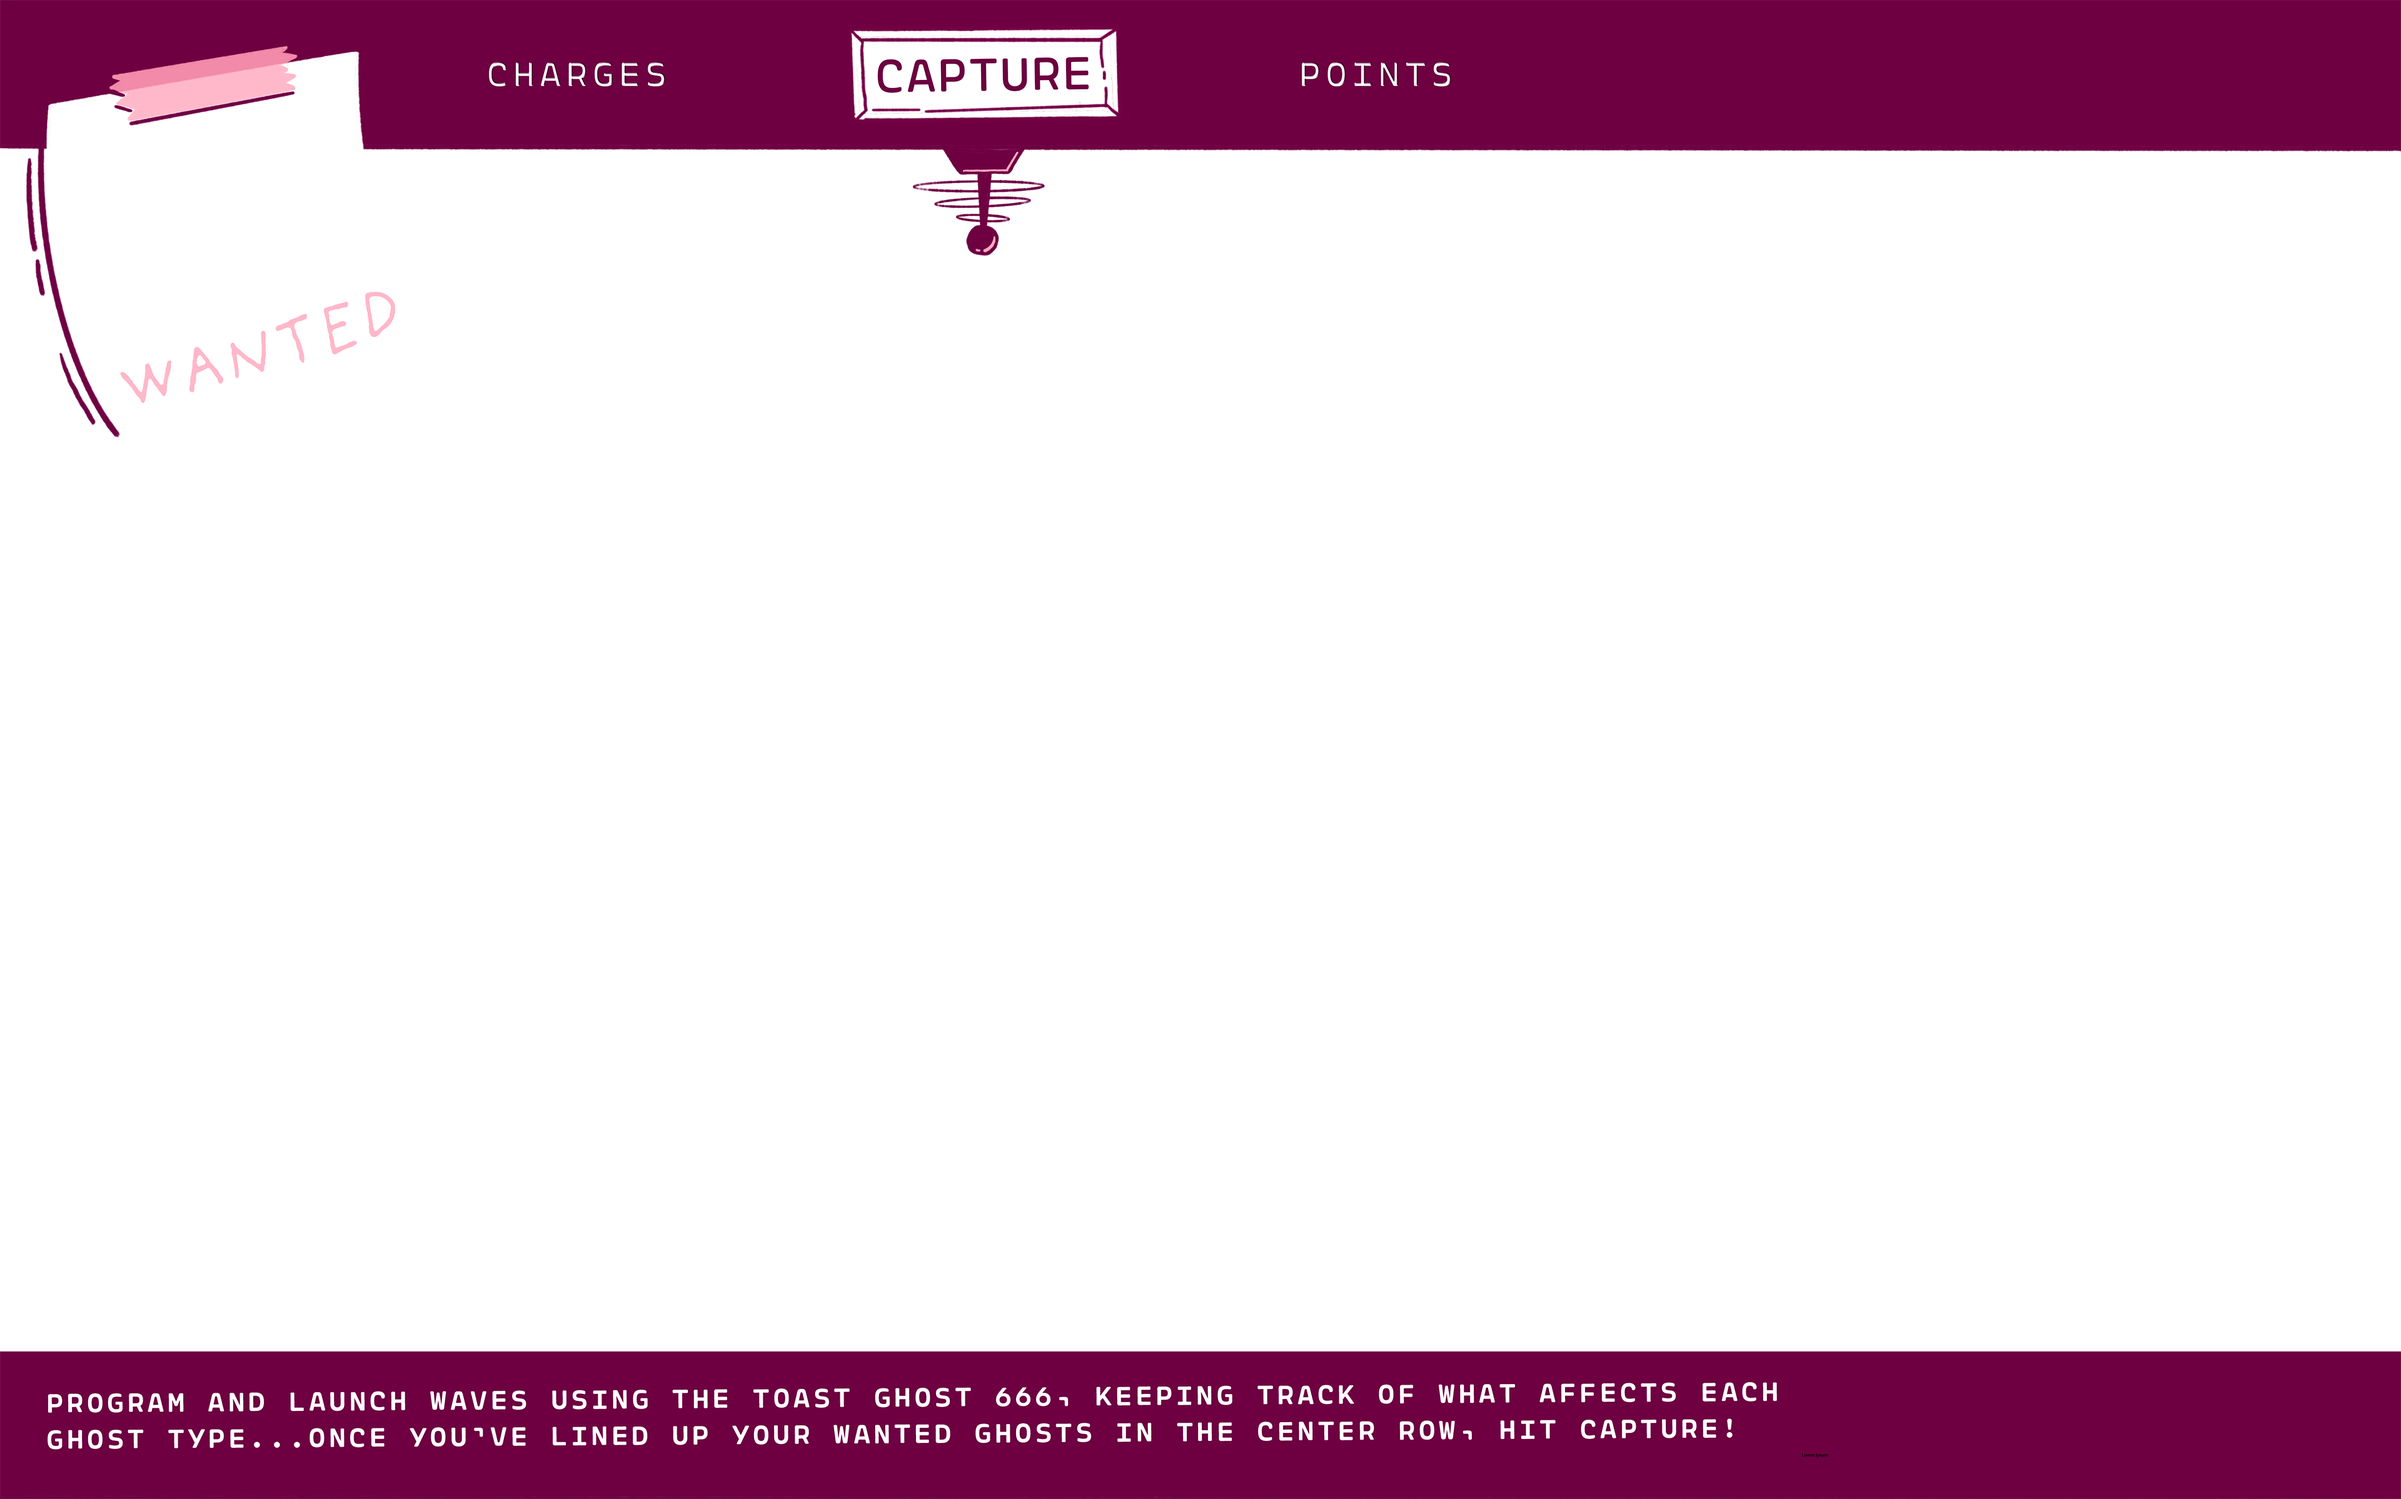
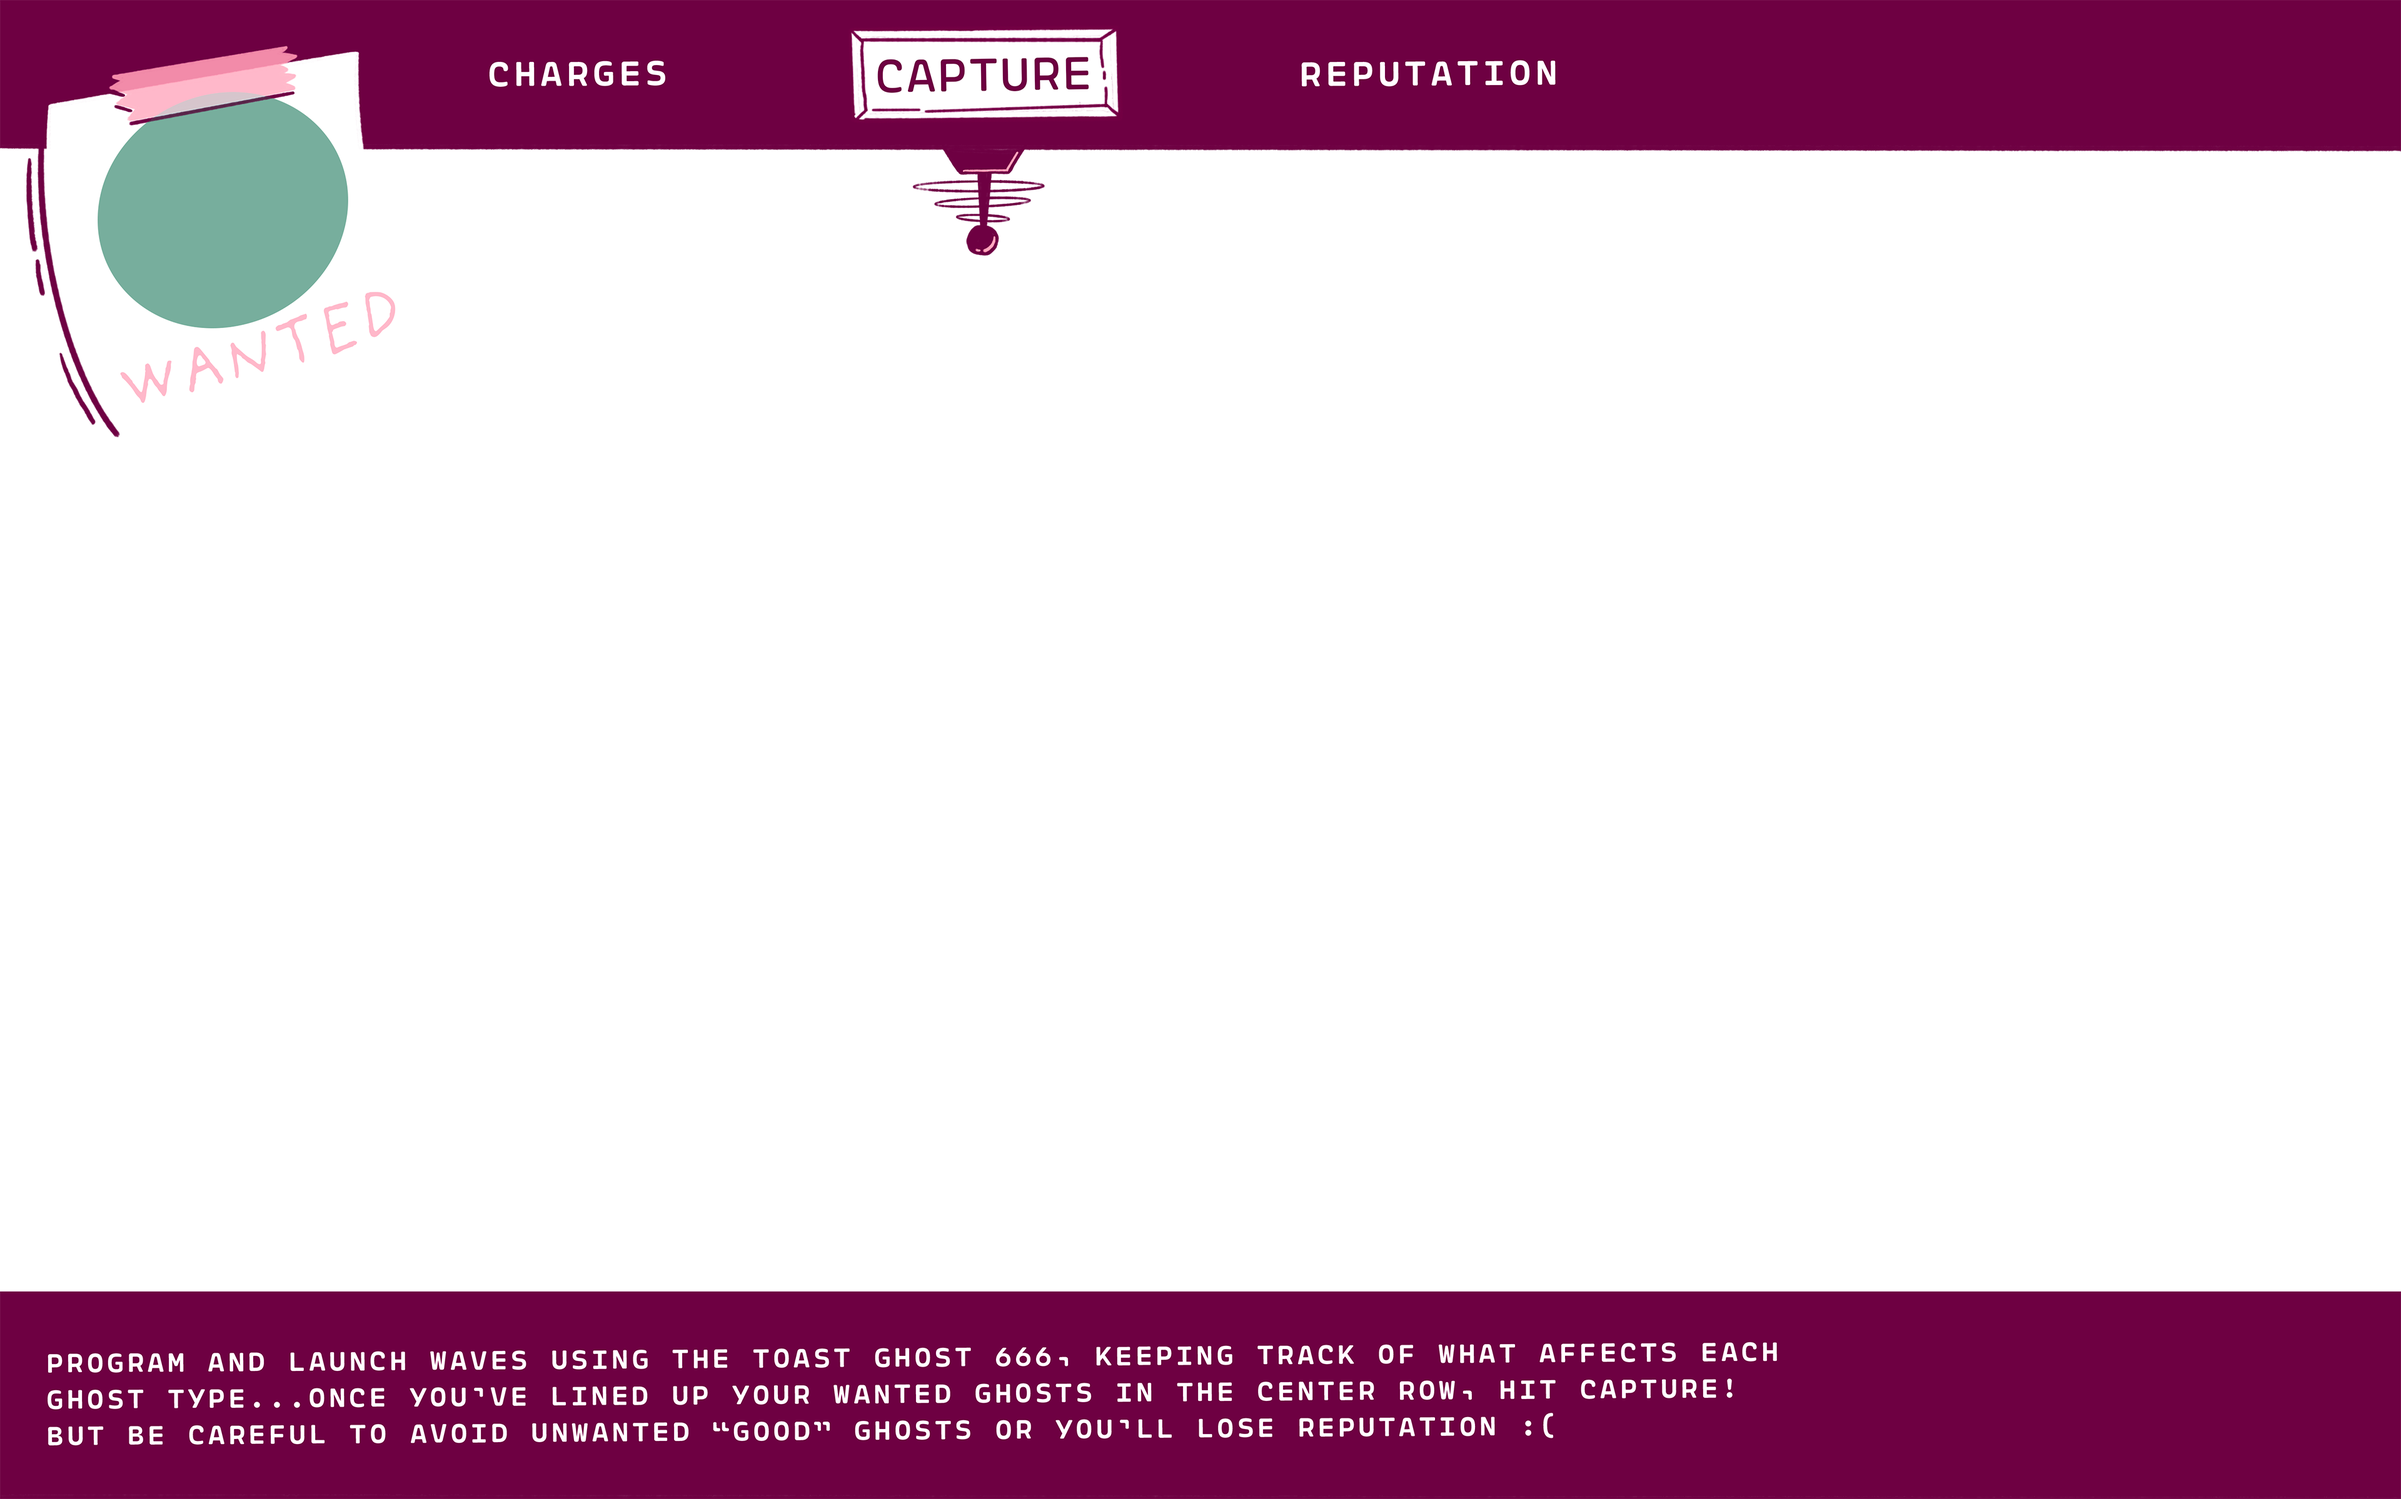
fix frame, counters

diff --git a/src/main.rs b/src/main.rs
@@ -131,7 +131,7 @@ struct Sprites {
     ghosts: Option<[[Handle<Image>; 14]; 8]>,
     background: Option<Handle<Image>>,
     frame: Option<Handle<Image>>,
-    frame_counter: Option<[Handle<Image>; 10]>,
+    frame_counter: Option<[Handle<Image>; 11]>,
     remote_base: Option<Handle<Image>>,
     remote_dial: Option<[Handle<Image>; 3]>,
     // by wave, then by state
@@ -230,7 +230,7 @@ fn load_sprites(
     sprites.remote_handle = Some(assets.load("ui/Handle.png"));
 
     let mut counters = Vec::<Handle<Image>>::new();
-    for counter_idx in 1..=10 {
+    for counter_idx in 0..=10 {
         let file_name = format!("ui/Counter{}.png", counter_idx);
         counters.push(assets.load(file_name));
     }
@@ -557,7 +557,7 @@ fn spawn_ui(
         cmd.spawn((
             TargetGhostDisplay,
             Sprite::from_image(target_ghost_sprite),
-            Transform::from_xyz(-1550.0, 830.0, 1.0)
+            Transform::from_xyz(-1580.0, 860.0, 1.0)
                 .with_scale(Vec3::new(0.5, 0.5, 1.0))
                 .with_rotation(Quat::from_euler(EulerRot::XYZ, 0.0, 0.0, std::f32::consts::PI / 12.0)),
         ));
@@ -1141,8 +1141,8 @@ fn update_counters(
     let counter_sprites = sprites.frame_counter.as_ref().expect("Sprites should be loaded");
     for (mut sprite, counter_type) in counters {
         let sprite_idx = match *counter_type {
-            ResourceCounter::Reputation => player_resources.reputation - 1,
-            ResourceCounter::Charges => player_resources.charges - 1,
+            ResourceCounter::Reputation => player_resources.reputation,
+            ResourceCounter::Charges => player_resources.charges,
         } as usize;
         sprite.image = counter_sprites[sprite_idx].clone();
     }

diff --git a/docs/todo.md b/docs/todo.md
@@ -28,8 +28,9 @@ This is the remaining work for finishing the game
     - [x] Display target ghost in the window
     - [x] Remove debug boxes
     - [ ] Respond to game win/lose
-    - [ ] Get new frame
-    - [ ] Put backing 
+        - [ ] Lock everything down and spawn the splash screen
+    - [x] Get new frame
+    - [x] Put backing 
 - [ ] Ideal
     - [ ] Handle 0th lane to not stick ghost behind the target
     - [ ] Make loading screen
